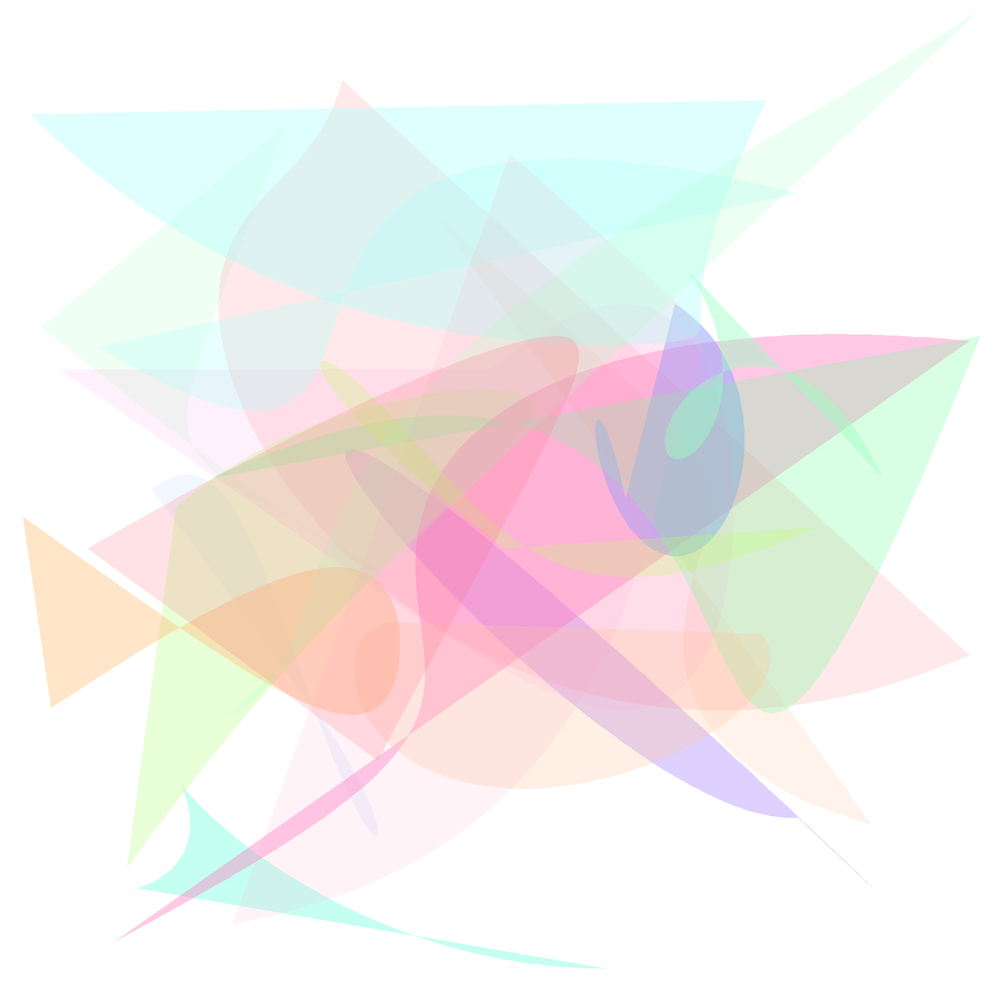
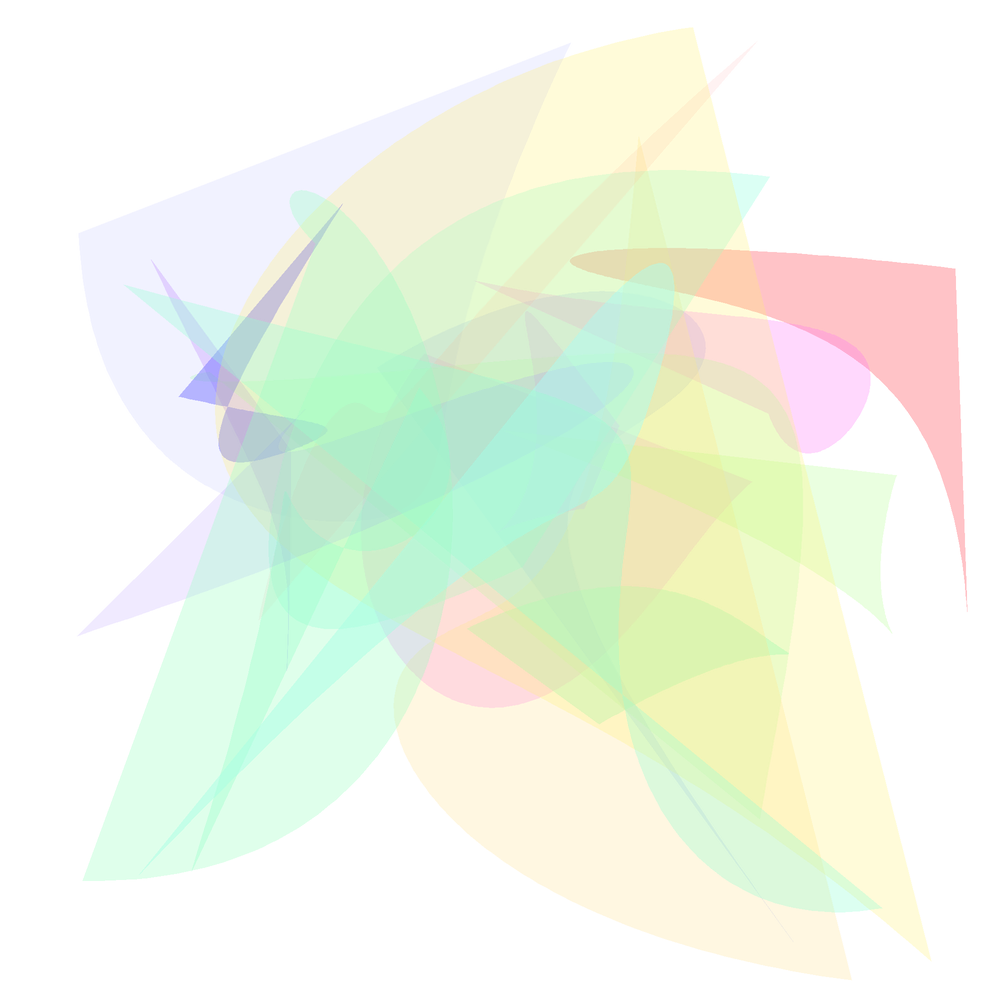
new art form

diff --git a/curves_and_lines.py b/curves_and_lines.py
@@ -1,25 +1,28 @@
 import random
 from PIL import Image, ImageDraw
-from tools.colors import random_pastel, hsv_to_rgb, add_transparency
+from tools.colors import random_pastel, hsv_to_rgb, add_transparency, random_gray, random_red, random_green, random_blue
 from classes.curve import Curve
 from tools.image_utils import create_points
 
 
-def generate_art(image, points_num, lines=100, steps=10,):
+def generate_art(image, points_num, lines=100, steps=10, color_change=True, color_func=random_pastel):
     width = 5
     line_width = 1
     accuracy = 0.005
+    color = color_func()
 
     curve = Curve(
         points=create_points(image, points_num),
         accuracy=accuracy,
-        color=hsv_to_rgb(*random_pastel()),
+        color=color,
         width=width)
 
     for _ in range(steps):
         curve.points = create_points(image, points_num)
-        curve.color = hsv_to_rgb(*random_pastel())
         curve.create_curve()
+
+        if color_change:
+            curve.color = color_func()
 
         curve.draw(image, centered=True)
 
@@ -37,8 +40,18 @@ def generate_art(image, points_num, lines=100, steps=10,):
 
 if __name__ == '__main__':
     size = 5000
+    factor = size // 1000
+
     my_img = Image.new('RGBA', (size, size), (0, 0, 0, 0))
+
     # 5, 300, 10 - probably the best
-    my_img = generate_art(my_img, points_num=5, lines=300, steps=10)
-    my_img = my_img.resize((size//5, size//5), resample=Image.ANTIALIAS)
+    my_img = generate_art(image=my_img,
+                          points_num=5,
+                          lines=300,
+                          steps=10,
+                          color_change=True,
+                          color_func=random_pastel)
+
+    # makes image smoother
+    my_img = my_img.resize((size//factor, size//factor), resample=Image.ANTIALIAS)
     my_img.save('images/curve.png')

diff --git a/in_a_shape.py b/in_a_shape.py
@@ -1,18 +1,19 @@
 import random
 from PIL import Image, ImageDraw
-from tools.colors import random_pastel, hsv_to_rgb, add_transparency
+from tools.colors import random_pastel, hsv_to_rgb, add_transparency, random_gray, random_red, random_green, random_blue
 from classes.curve import Curve
 from tools.image_utils import create_points
 
 
-def generate_art(image, points_num, steps=1):
+def generate_art(image, points_num, steps=1, color_change=True, color_func=random_pastel):
     acc = 0.005
     width = 5
+    color = color_func()
 
     curve = Curve(
         points=create_points(image, points_num),
         accuracy=acc,
-        color=hsv_to_rgb(*random_pastel()),
+        color=color,
         width=width
     )
 
@@ -24,7 +25,9 @@ def generate_art(image, points_num, steps=1):
         new_img = Image.new('RGBA', image.size, (0, 0, 0, 0))
         new_draw = ImageDraw.Draw(new_img)
 
-        color = hsv_to_rgb(*random_pastel())
+        if color_change:
+            color = color_func()
+
         polygon_color = add_transparency(color, random.randint(10, 50)/100)
         new_draw.polygon(points, fill=polygon_color)
 
@@ -35,7 +38,16 @@ def generate_art(image, points_num, steps=1):
 
 if __name__ == '__main__':
     size = 2000
+    factor = size // 1000
+
     img = Image.new('RGBA', (size, size), (0, 0, 0, 0))
-    img = generate_art(img, points_num=5, steps=20)
-    img = img.resize((size//2, size//2), resample=Image.ANTIALIAS)
+
+    img = generate_art(image=img,
+                       points_num=5,
+                       steps=20,
+                       color_change=True,
+                       color_func=random_pastel)
+
+    # makes image smoother
+    img = img.resize((size//factor, size//factor), resample=Image.ANTIALIAS)
     img.save('images/shape.png')

diff --git a/tools/image_utils.py b/tools/image_utils.py
@@ -1,5 +1,6 @@
 import random
 import numpy as np
+from PIL import Image
 
 
 def calculate_offset(image, points):
@@ -19,9 +20,35 @@ def calculate_offset(image, points):
     return offset_x, offset_y
 
 
-def create_points(image, points_num):
+def create_points(image, points_num, indent=50):
     pts = []
     for _ in range(points_num):
-        pts.append([random.randint(20, image.size[0] - 20), random.randint(20, image.size[0] - 20)])
+        pts.append([random.randint(indent, image.size[0] - indent), random.randint(indent, image.size[0] - indent)])
     pts = np.array(pts)
     return pts
+
+
+def points_along_line(image, points_num, indent=50):
+    start_point = [indent, indent]
+    end_point = [image.size[0] - indent, image.size[1] - indent]
+    pts = [start_point]
+
+    step_length = end_point[0] // points_num
+    for i in range(points_num - 1):
+        new_point = [step_length * (i + 1), random.randint(0, image.size[1])]
+        pts.append(new_point)
+
+    pts.append(end_point)
+    pts = np.array(pts)
+    return pts
+
+
+def create_image(size, steps, art_func, factor=5):
+    new_size = size * factor
+
+    image = Image.new('RGBA', (new_size, new_size), (0, 0, 0, 0))
+    for _ in range(steps):
+        art_func(image=image)
+
+    image = image.resize((size, size), resample=Image.ANTIALIAS)
+    return image

diff --git a/tools/colors.py b/tools/colors.py
@@ -24,7 +24,7 @@ def random_saturated(hue=None):
     if hue is None:
         hue = random.randint(10, 100) / 100
 
-    return (
+    return hsv_to_rgb(
         hue,
         saturation,
         random.randint(10, 100) / 100
@@ -35,11 +35,43 @@ def random_pastel():
     hue = random.randint(0, 100) / 100
     saturation = random.randint(30, 60) / 100
 
-    return (
+    return hsv_to_rgb(
         hue,
         saturation,
         1
     )
+
+
+def random_red():
+    hue = random.randint(0, 20) / 360
+    return hsv_to_rgb(
+        hue,
+        random.randint(60, 100) / 100,
+        random.randint(60, 100) / 100
+    )
+
+
+def random_green():
+    hue = random.randint(61, 140) / 360
+    return hsv_to_rgb(
+        hue,
+        random.randint(50, 100) / 100,
+        random.randint(50, 100) / 100
+    )
+
+
+def random_blue():
+    hue = random.randint(170, 240) / 360
+    return hsv_to_rgb(
+        hue,
+        random.randint(50, 100) / 100,
+        random.randint(50, 100) / 100
+    )
+
+
+def random_gray():
+    gray = random.randint(50, 200)
+    return gray, gray, gray
 
 
 def hsv_to_rgb(h, s, v):

diff --git a/curvature.py b/curvature.py
@@ -1,0 +1,34 @@
+import random
+from PIL import Image, ImageDraw
+from tools.colors import *
+from classes.curve import Curve
+from tools.image_utils import points_along_line, create_image
+
+
+def generate_art(image, points_num, color_func=random_pastel, width=5):
+    accuracy = 0.005
+    color = color_func()
+
+    curve = Curve(
+        points=points_along_line(image, points_num),
+        accuracy=accuracy,
+        color=color,
+        width=width)
+
+    curve.create_curve()
+    curve.draw(image, centered=True)
+
+
+if __name__ == '__main__':
+    size = 5000
+    factor = size // 1000
+    img = Image.new('RGBA', (size, size), (0, 0, 0, 0))
+
+    for _ in range(100):
+        generate_art(image=img,
+                     points_num=10,
+                     color_func=random_pastel,
+                     width=random.randint(1, 3))
+
+    img = img.resize((size//factor, size//factor), resample=Image.ANTIALIAS)
+    img.save('images/curvature.png')

diff --git a/README.md b/README.md
@@ -4,3 +4,5 @@ Example 1:
 ![](images/curve.png)
 Example 2:
 ![](images/shape.png)
+Example 3:
+![](images/curvature.png)
